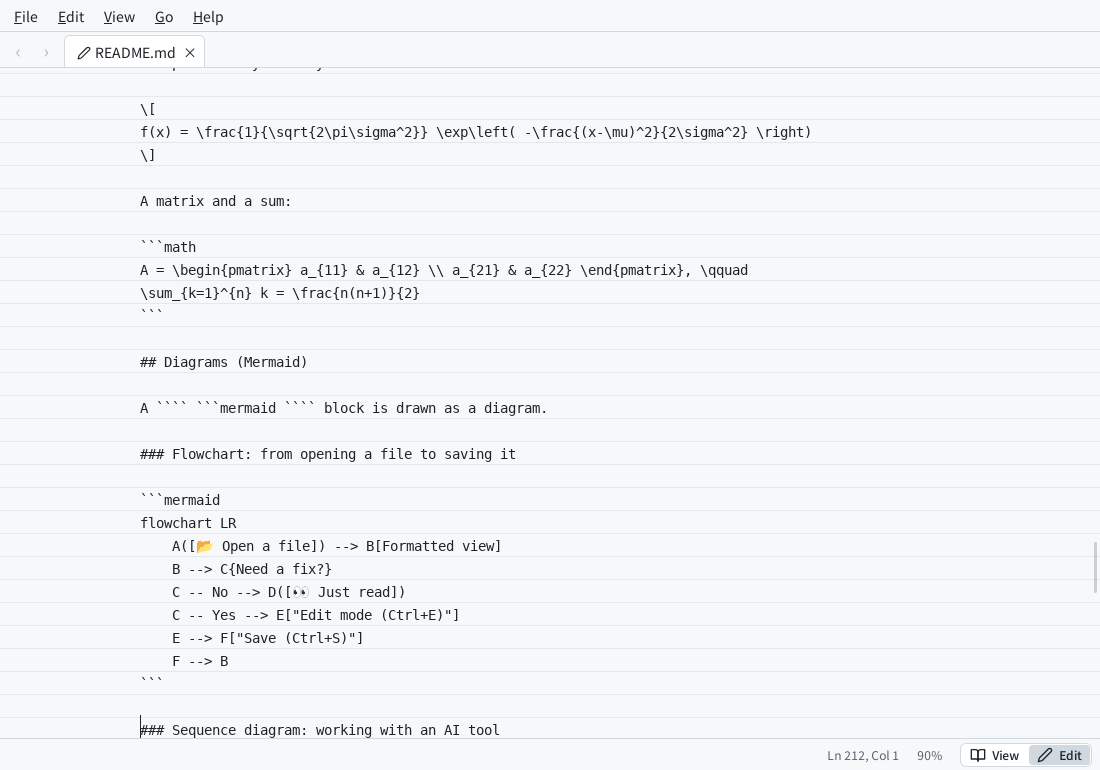
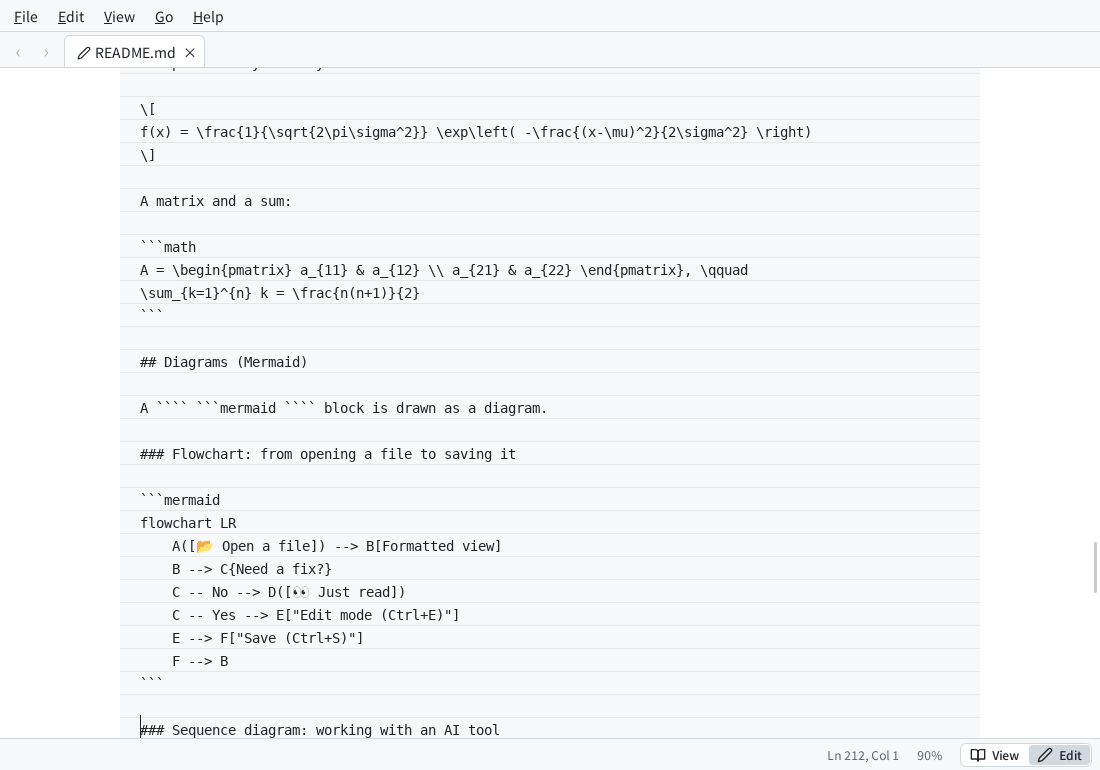
Edit mode: ruled sheet under the text column only; margins keep the page color
The gray tint and the ruled lines now cover the text column plus a small
edge (1.25rem each side) instead of the whole pane, so the side margins
look the same as in view mode. Editor screenshots and demo GIFs updated.

Claude-Session: https://claude.ai/code/session_014WACe7tbnv69AqTmDkT8nE

diff --git a/ui/src/styles/app.css b/ui/src/styles/app.css
@@ -48,22 +48,26 @@ html, body { background: var(--bg); color: var(--fg); }
 /* Each tab scrolls in its own pane; the window itself does not scroll. */
 body { overflow: hidden; }
 
-/* Edit mode: a tinted page with faint ruled lines, so it is clearly not the formatted view.
-   The lines are drawn once per text line and scroll with the text (background-attachment: local);
-   --lh must match the line height, --pt the top padding (where the first line starts). */
+/* Edit mode: a sheet of ruled paper under the text column (the side margins keep the page color of
+   the view), so it is clearly not the formatted view. The sheet is the text column plus 1.25rem on
+   each side (the textarea's side padding is max(2rem, (100% - 820px) / 2)); the lines start at the
+   first text line (--pt), are drawn once per line (--lh) and scroll with the text (local). */
 .editor-paper {
   --lh: calc(16px * var(--zoom, 1) * 1.625);
   --pt: 1.5rem;
+  --sheet: 100%;
   padding-top: var(--pt);
   font-size: calc(16px * var(--zoom, 1));
   line-height: var(--lh);
-  background-color: var(--code-bg);
-  background-image: linear-gradient(to bottom, transparent calc(var(--lh) - 1px), var(--rule) calc(var(--lh) - 1px));
-  background-size: 100% var(--lh);
-  background-position: 0 var(--pt);
-  background-attachment: local;
+  background:
+    linear-gradient(to bottom, transparent calc(var(--lh) - 1px), var(--rule) calc(var(--lh) - 1px))
+      50% var(--pt) / var(--sheet) var(--lh) repeat-y local,
+    linear-gradient(var(--code-bg), var(--code-bg)) 50% 0 / var(--sheet) 100% no-repeat local,
+    var(--bg);
 }
-@media (min-width: 640px) { .editor-paper { --pt: 2rem; } }
+@media (min-width: 640px) {
+  .editor-paper { --pt: 2rem; --sheet: calc(min(100% - 4rem, 820px) + 2.5rem); }
+}
 
 /* Find in page (CSS Custom Highlight API). */
 ::highlight(find) { background-color: #fff08a; color: #1f2328; }

diff --git a/README.ja.md b/README.ja.md
@@ -37,7 +37,7 @@ Markdown を書いたり書き直したりするのは生成AIの仕事。mdview
 | メニュー | ファイル・編集・表示・移動・ヘルプ。<kbd>Alt</kbd> または <kbd>F10</kbd> でメニューへ移動、<kbd>Alt</kbd>+<kbd>F</kbd> などで直接開く |
 | 言語 | メニューは日本語と英語。OS の言語設定に合わせて自動で選び、「表示」メニューで切り替えられる（選択は次回も維持） |
 | ヘルプ | <kbd>F1</kbd> でショートカット一覧。「ヘルプ → mdviewer について」でバージョン・作者・ライセンス |
-| 編集モードに切替 | <kbd>Ctrl</kbd>+<kbd>E</kbd> または右下のステータスバーにある「表示 \| 編集」スイッチ（表示に戻すと、編集内容をビューアに反映して表示）。編集中は背景が薄いグレーになって薄い罫線が入り、ステータスバーにカーソルの行・列を表示する。編集中のタブには鉛筆の印が付く |
+| 編集モードに切替 | <kbd>Ctrl</kbd>+<kbd>E</kbd> または右下のステータスバーにある「表示 \| 編集」スイッチ（表示に戻すと、編集内容をビューアに反映して表示）。編集中は本文の幅の部分が薄いグレーの罫線入りの紙のようになり、ステータスバーにカーソルの行・列を表示する。編集中のタブには鉛筆の印が付く |
 | 保存 | <kbd>Ctrl</kbd>+<kbd>S</kbd>（元ファイルの改行コード CRLF/LF と BOM を維持）。未保存の間はタイトルに `●` |
 | 拡大・縮小 | <kbd>Ctrl</kbd>+ホイール / <kbd>Ctrl</kbd>+<kbd>+</kbd> <kbd>-</kbd>（<kbd>Ctrl</kbd>+<kbd>0</kbd> で 100%）。倍率はステータスバーに表示（クリックで 100%）し、次回も維持 |
 | 自動再読み込み | ファイルが更新されると表示を自動更新（スクロール位置は維持）。手動は <kbd>F5</kbd>。未保存の編集は上書きしない |

diff --git a/README.md b/README.md
@@ -37,7 +37,7 @@ The screenshots were taken with the Linux build used for development. On Windows
 | Menus | File, Edit, View, Go and Help. <kbd>Alt</kbd> or <kbd>F10</kbd> moves to the menu bar, <kbd>Alt</kbd>+<kbd>F</kbd> etc. opens a menu directly |
 | Language | Menus in English and Japanese, chosen from your system language and switchable in the **View** menu (remembered) |
 | Help | <kbd>F1</kbd> shows the keyboard shortcuts. **Help → About mdviewer** shows the version, author and license |
-| Edit mode | <kbd>Ctrl</kbd>+<kbd>E</kbd> or the View \| Edit switch at the bottom right, in the status bar (switch back to see your edits formatted). The page turns light gray with faint ruled lines, the status bar shows the cursor line and column, and tabs being edited are marked with a pencil |
+| Edit mode | <kbd>Ctrl</kbd>+<kbd>E</kbd> or the View \| Edit switch at the bottom right, in the status bar (switch back to see your edits formatted). The text column turns into a light gray sheet with faint ruled lines, the status bar shows the cursor line and column, and tabs being edited are marked with a pencil |
 | Save | <kbd>Ctrl</kbd>+<kbd>S</kbd> (keeps the file's line endings, CRLF / LF, and BOM). The title shows `●` while there are unsaved changes |
 | Zoom | <kbd>Ctrl</kbd>+wheel / <kbd>Ctrl</kbd>+<kbd>+</kbd> <kbd>-</kbd> (<kbd>Ctrl</kbd>+<kbd>0</kbd> for 100%). The level is shown in the status bar (click it for 100%) and remembered |
 | Auto reload | Updates the view when the file changes (keeping the scroll position). <kbd>F5</kbd> reloads manually. Unsaved edits are never overwritten |

diff --git a/CHANGELOG.md b/CHANGELOG.md
@@ -18,7 +18,7 @@
 - While editing, the status bar shows the cursor line and column
 
 ### Changed
-- Edit mode looks different from the view: a light gray page with faint ruled lines (in both themes)
+- Edit mode looks different from the view: the text column becomes a light gray sheet with faint ruled lines, while the side margins keep the page color (in both themes)
 
 ---
 
@@ -29,7 +29,7 @@
 - 編集中は、ステータスバーにカーソルの行・列を表示する
 
 **変更**
-- 編集モードを表示モードと見分けやすくした。背景を薄いグレーにし、薄い罫線を入れる（ライト・ダークとも）
+- 編集モードを表示モードと見分けやすくした。本文の幅の部分を薄いグレーの罫線入りの紙のようにし、左右の余白は表示モードと同じ色のままにする（ライト・ダークとも）
 
 ## [0.2.2] - 2026-09-29
 

diff --git a/docs/manual/ja/README.md b/docs/manual/ja/README.md
@@ -73,7 +73,7 @@ flowchart LR
 
 <kbd>Ctrl</kbd>+<kbd>E</kbd>（または右下のスイッチの「編集」）で編集モードになります。
 もう一度押すと、編集した内容で表示し直します。<kbd>Ctrl</kbd>+<kbd>S</kbd> で保存します。
-編集中は、背景が薄いグレーになって薄い罫線が入り、ステータスバーにカーソルの行と列が表示されます。
+編集中は、本文の幅の部分が薄いグレーの罫線入りの紙のようになり、ステータスバーにカーソルの行と列が表示されます。
 
 リストを書くときは、<kbd>Enter</kbd> で次の項目が自動で続きます。
 

diff --git a/docs/manual/README.md b/docs/manual/README.md
@@ -73,7 +73,7 @@ Going back also restores the scroll position.
 
 <kbd>Ctrl</kbd>+<kbd>E</kbd> (or **Edit** in the switch at the bottom right) switches to edit mode.
 Press it again to see your edits formatted. <kbd>Ctrl</kbd>+<kbd>S</kbd> saves.
-While editing, the page is light gray with faint ruled lines, and the status bar shows the line and column of the cursor.
+While editing, the text column is a light gray sheet with faint ruled lines, and the status bar shows the line and column of the cursor.
 
 When you write a list, <kbd>Enter</kbd> continues it for you:
 
